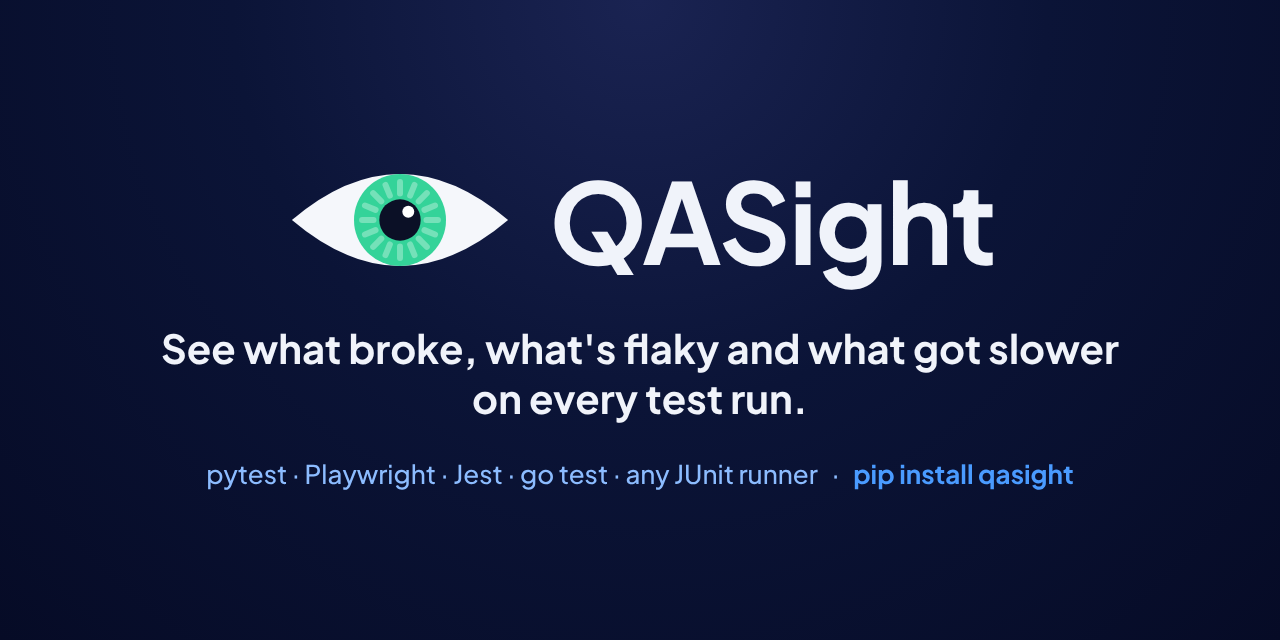
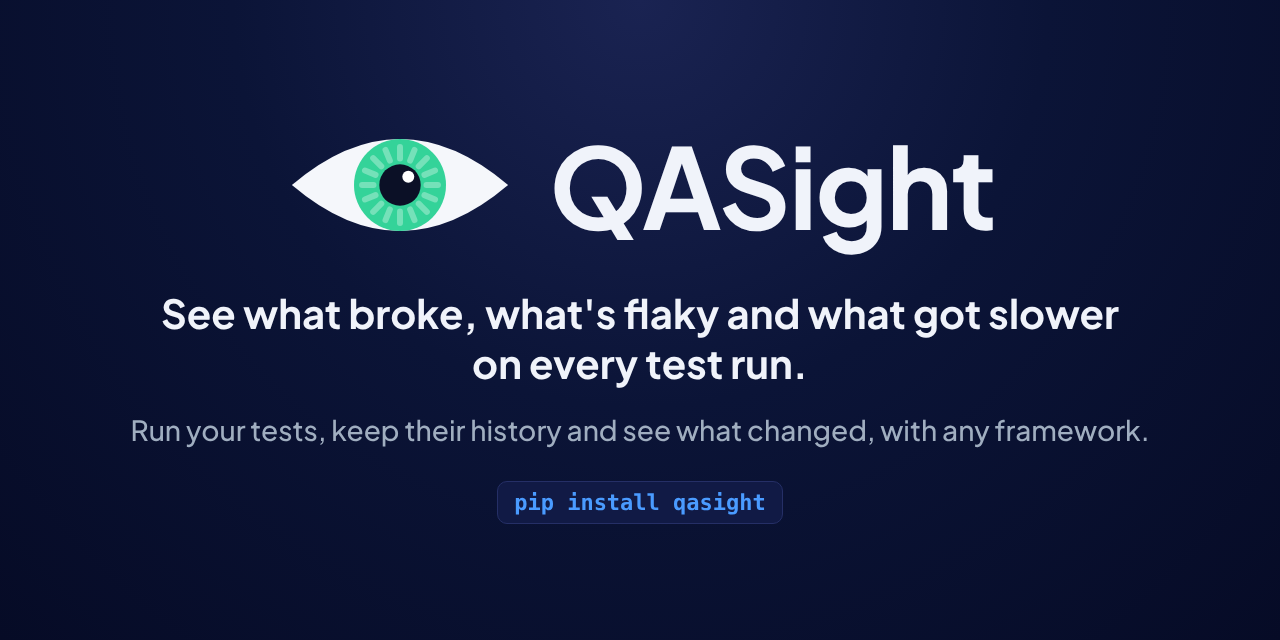
docs: describe QASight as a runner in one line, without naming frameworks
Claude-Session: https://claude.ai/code/session_01AsDFGDXQiLDFVRT7pkTKXt

Changed region(s): [[0.0938, 0.2188, 0.9062, 0.6875], [0.1562, 0.7188, 0.8438, 0.8125]]

diff --git a/scripts/render_logo.js b/scripts/render_logo.js
@@ -45,10 +45,10 @@ const wordmark = (ink, outline) =>
 const social = page(
   `<div id="c"><div class="row"><svg viewBox="0 0 100 60" width="230" height="138">${mark()}</svg><span>QASight</span></div>
    <h1>See what broke, what's flaky and what got slower on every test run.</h1>
-   <p>pytest · Playwright · Jest · go test · any JUnit runner &nbsp;&nbsp;·&nbsp;&nbsp; <b>pip install qasight</b></p></div>`,
+   <p>Run your tests, keep their history and see what changed, with any framework.</p><code>pip install qasight</code></div>`,
   `#c{width:1280px;height:640px;background:radial-gradient(ellipse at 50% 0%,#1a2352 0%,#0b1437 45%,#060b26 100%);display:flex;flex-direction:column;align-items:center;justify-content:center;gap:34px;color:#f0f3fa;text-align:center}
    .row{display:flex;align-items:center;gap:34px} .row span{font-size:112px;font-weight:700;letter-spacing:-2px;line-height:1}
-   h1{font-size:40px;font-weight:700;max-width:1000px;line-height:1.25} p{font-size:26px;font-weight:500;color:#8cbcff} b{font-weight:700;color:#4a9bff}`,
+   h1{font-size:40px;font-weight:700;max-width:1000px;line-height:1.25} p{font-size:28px;font-weight:500;color:#a0aec0;margin-top:-10px} code{font:600 22px ui-monospace,Menlo,monospace;color:#4a9bff;background:#111a45;border:1px solid #252f66;border-radius:10px;padding:8px 16px}`,
 );
 
 const favicon = page(

diff --git a/CHANGELOG.md b/CHANGELOG.md
@@ -82,7 +82,7 @@ This project adheres to [Semantic Versioning](https://semver.org/spec/v2.0.0.htm
 - The team server compose file keeps backups in their own `testo_backups` volume at `/backups` (was `/data/backups` in the data volume) and removes `.partial` files left by a backup cut short. Copy any backups you want to keep out of `/data/backups` after updating the compose file
 - A run whose result files couldn't be copied into the history (a full disk) is still recorded, the half copy is removed, and the run notes `snapshot_error`
 - Web UI: the logo is now an eye instead of the flexed arm. On the Project health page its iris takes the health score colour (green, amber or red), it blinks when you hover it, and its pupil spins while the UI is loading data (no motion with reduced-motion settings)
-- The README (and so the PyPI page), the docs site logo and favicon, and the social preview show the eye and the QASight name instead of the Testosterone arm, and the README screenshots are retaken with the QASight name. `scripts/render_logo.js` renders the logo files
+- The README (and so the PyPI page), the docs site logo and favicon, and the social preview show the eye and the QASight name instead of the Testosterone arm, and the README screenshots are retaken with the QASight name. The README, social preview and PyPI summary describe QASight as running your tests too and no longer list frameworks by name. `scripts/render_logo.js` renders the logo files
 - Compare, `qasight diff`, `qasight try` and the pull request comment match a test recorded two different ways (`qasight run`, then `pytest --qasight` or `qasight ingest` of the same suite) by its name, instead of listing it as removed and added. The comment also says when the cycle's stages changed since the run it is compared with
 - `qasight init` is now the first thing the README, Getting Started, the Setup Prompts (new prompt 0), the dashboard's first-run guide and the `/try` page suggest; they also show how to run it without a virtualenv (`uvx --from qasight qasight init`). Getting Started has an Upgrading section
 - Docs: [New User Journey Audit](docs/Roadmap%20&%20Strategy/New%20User%20Journey%20Audit%20-%202026-11-01.md) lists what a new user still does by hand at each step, from finding QASight to a team server, with ranked proposals to automate it

diff --git a/README.md b/README.md
@@ -7,7 +7,7 @@
 
 _Formerly Testosterone (`testo-core`). Old commands, imports and config files keep working; see [the rename notes](docs/Specs%20%26%20ADRs/Rename%20to%20QASight%20-%202026-11-04.md)._
 
-**See what broke, what's flaky and what got slower on every run.** Test history, run-to-run diffs and flaky detection for pytest, Playwright, Jest, `go test` or any runner that writes JUnit XML: on your laptop, in CI, or on one shared server for the whole team.
+**See what broke, what's flaky and what got slower on every run.** Run your tests, keep their history and see what changed, with any framework. On your laptop, in CI, or on one shared server for the whole team.
 
 [![CI](https://github.com/arieleven/qasight/actions/workflows/ci.yml/badge.svg)](https://github.com/arieleven/qasight/actions/workflows/ci.yml)
 [![PyPI](https://img.shields.io/pypi/v/qasight)](https://pypi.org/project/qasight/)
